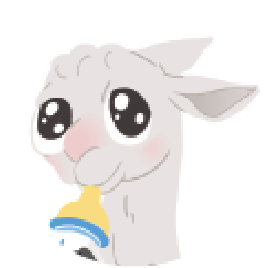
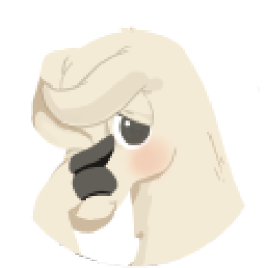
Fix shy llama, hide pet llama, add alt instructions

diff --git a/src/assets/main.css b/src/assets/main.css
@@ -29,6 +29,10 @@ ol, ul {
   margin: 0;
 }
 
+ul {
+  padding: 20px;
+}
+
 
 h1 {
     text-shadow: #05092b 4px 4px 2px;

diff --git a/src/how-to-play-alt.md b/src/how-to-play-alt.md
@@ -1,0 +1,97 @@
+---
+layout: main.njk
+title: How to Play Llama Drama
+description: Video and text instructions for how to play Llama Drama, a fun card game for all ages.
+style: instructions
+---
+
+# How to Play
+
+
+It's easy! Play all your cards with a surprising twist at the end.
+
+<div class="youtube">
+    <iframe
+      src="https://www.youtube.com/embed/cPc9AmZv7Yo"
+      title="YouTube video player"
+      frameborder="0"
+      referrerpolicy="strict-origin-when-cross-origin"
+      allowfullscreen
+    ></iframe>
+</div>
+
+## Setup
+
+1. Each player gets:
+    - 3 cards face down (don’t look!)
+    - 3 cards face up on top of those
+    - 5 cards to hold in their hand
+2. Put the leftover cards in a pile in the middle as the Draw Pile.
+3. Leave space next to it for a Discard Pile and a Play Pile.
+
+Below is an example of a three-player game:
+
+<div style="margin-top: 1em;">
+  <img style="max-width: 600px;width:100%;" src="/assets/llama-drama-3-card.jpg" alt="Three cards face down, three cards face up, and five cards in hand." />
+</div>
+
+## Goal and Strategy
+
+The first player to play all their cards wins. Strengthen your hand by saving powerful cards and playing
+weak ones until the Draw Pile runs out. Anticipate your opponent’s responses and strategically play
+cards that improve your chances on the next turn.
+
+## Setup
+
+Deal each player 3 cards face down hidden from everyone, 3 cards face up on top of those, and 5 cards
+to hold hidden from other players. Put the leftover cards in a pile in the middle as the Draw Pile. Leave
+space next to it for a Discard Pile and a Play Pile. Below is an example of a 3-player game.
+
+## Game Play
+
+ - Decide who goes first and take turns clockwise.
+ - On a turn, play one or multiple identical cards from your hand into the Play Pile.
+   - If the Play Pile is empty, play any card. If not, play one or multiple identical cards that match or beat the top card of the Play Pile.
+   - If you can’t play a card, add the entire Play Pile to your hand, ending your turn.
+ - Before ending a turn, draw cards from the Draw Pile to keep at least 5 in your hand. This only applies until the Draw Pile runs out.
+ - If at any time four identical cards are played together, or in a row by different players, the Play Pile is discarded and the player completing the set plays again.
+
+
+
+## Winning
+
+ - Only when your hand is empty, you may play from your face up cards. Keep them on the table for all to see. Play multiple face up cards on a turn only if they are identical.
+ - When those are finished, randomly play one face down card per turn without peeking.
+ - If a face up card or a face down card cannot go on the Play Pile, add that card and the entire Play Pile to your hand, ending your turn. Finish your hand again before playing face up or face down cards.
+ - The first person to finish all their cards wins!
+
+## Llama Hierarchy
+
+<table>
+  <tbody>
+    <tr>
+      <td><img src="/assets/circle-cards.png" width="50px" alt="Numbered Llama" /></td>
+      <td><b>Numbers.</b> Play on identical numbers, on lower numbers, or on certain Special Llamas.</td>
+    </tr>
+    <tr>
+      <td><img src="/assets/circle-baby.png" width="50px" alt="Baby Llama" /></td>
+      <td><b>Baby Llama.</b> Play on any card. Next player can play any card in response.</td>
+    </tr>
+    <tr>
+      <td><img src="/assets/circle-shy.png" width="50px" alt="Shy Llama" /></td>
+      <td><b>Shy Llama.</b> Play on any card except Big Llama. Next player can only play numbers 1-4 or Special Llamas except Big Llama.</td>
+    </tr>
+    <tr>
+      <td><img src="/assets/circle-big.png" width="50px" alt="Big Llama" /></td>
+      <td><b>Big Llama.</b> Play on any card except Shy Llama. Next player can only play special Llamas except Shy Llama.</td>
+    </tr>
+    <tr>
+      <td><img src="/assets/circle-magic.png" width="50px" alt="Magic Llama" /></td>
+      <td><b>Magic Llama.</b> Play on any card. Discard the entire Play Pile and play another card in the same turn.</td>
+    </tr>
+    <tr>
+      <td><img src="/assets/circle-ghost.png" width="50px" alt="Ghost Llama" /></td>
+      <td><b>Ghost Llama.</b> Play on any card. Acting invisible, the next player must play on the previous card.</td>
+    </tr>
+  </tbody>
+</table>

diff --git a/src/how-to-play.md b/src/how-to-play.md
@@ -7,7 +7,6 @@ style: instructions
 
 # How to Play
 
-
 It's easy! Play all your cards with a surprising twist at the end.
 
 <div class="youtube">
@@ -23,8 +22,8 @@ It's easy! Play all your cards with a surprising twist at the end.
 ## Setup
 
 1. Each player gets:
-    - 3 cards face-down (don’t look!)
-    - 3 cards face-up on top of those
+    - 3 cards face down (don’t look!)
+    - 3 cards face up on top of those
     - 5 cards to hold in their hand
 2. Put the leftover cards in a pile in the middle as the Draw Pile.
 3. Leave space next to it for a Discard Pile and a Play Pile.
@@ -32,7 +31,7 @@ It's easy! Play all your cards with a surprising twist at the end.
 Below is an example of a three-player game:
 
 <div style="margin-top: 1em;">
-  <img style="max-width: 600px;width:100%;" src="/assets/llama-drama-3-card.jpg" alt="Three cards face-down, three cards face-up, and five cards in hand." />
+  <img style="max-width: 600px;width:100%;" src="/assets/llama-drama-3-card.jpg" alt="Three cards face down, three cards face up, and five cards in hand." />
 </div>
 
 ## How to Win
